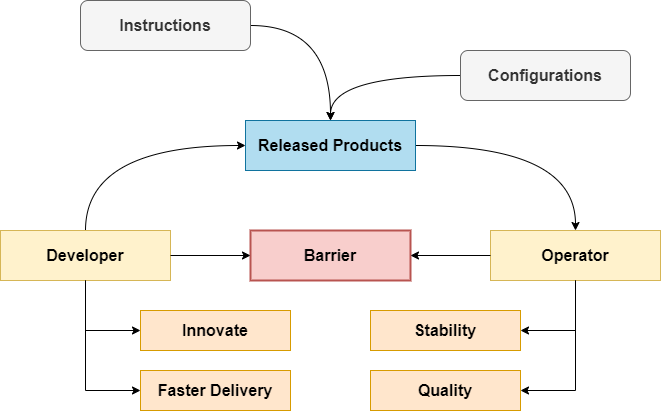
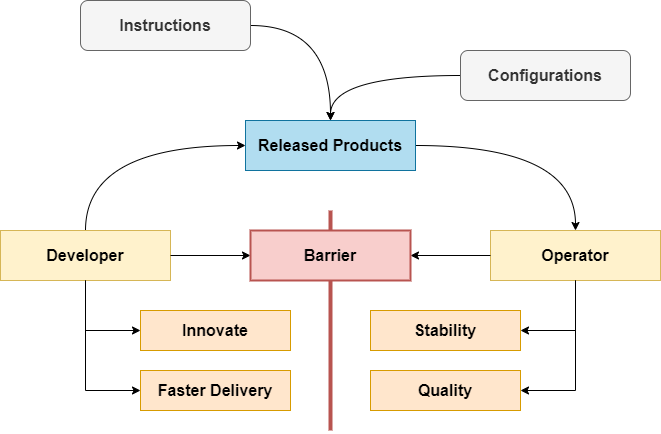
add release problem

diff --git a/README.md b/README.md
@@ -69,6 +69,8 @@ Operator memiliki tanggung jawab terhadap **Scalability** jangan sampai terjadi 
 
 <img src="/asset/DevOps-Problem2.png" style="zoom:100%;" />
 
+**Developer** biasanya memberikan beberapa instruksi dan konfigurasi untuk **Operator**, jika terdapat instruksi dan konfigurasi yang tidak tercatat atau terlewat oleh **Operator** karena dilakukan secara manual maka seringkali menimbulkan masalah.
+
 ### Traditional Software Development
 
 Kurang lebih di bawah ini adalah figur-figur yang ada dalam **Traditional Software Development** :
@@ -101,9 +103,11 @@ Sebagaimana dikatakan **Lord** **Dogecoin**, **Elon musk** "***Any Product That 
 
 ## DevOps Way
 
-Peran seorang **DevOps** berada di antara **Developments** dan **Operations** terlibat secara penuh dalam **Software Development Life Cycle (SDLC)**. Menyelesaikan seluruh permasalahan dalam **Traditional Software Development **menggunakan prinsip-prinsip yang radikal.
+<img src="/asset/DevOps-Problem3.png" style="zoom:100%;" />
 
+Peran seorang **DevOps** berada di antara **Developments** dan **Operations** terlibat secara penuh dalam **Software Development Life Cycle (SDLC)**. Menyelesaikan seluruh permasalahan dalam **Traditional Software Development **menggunakan prinsip-prinsip **Agile** yang radikal.
 
+Dalam beberapa kasus seorang DevOps dapat ikut serta dalam proses development, namun fokus utamanya tetap menjamin operasi bisnis perusahaan.
 
 <img src="/asset/DevOps-Focus.png" style="zoom:100%;" />
 
